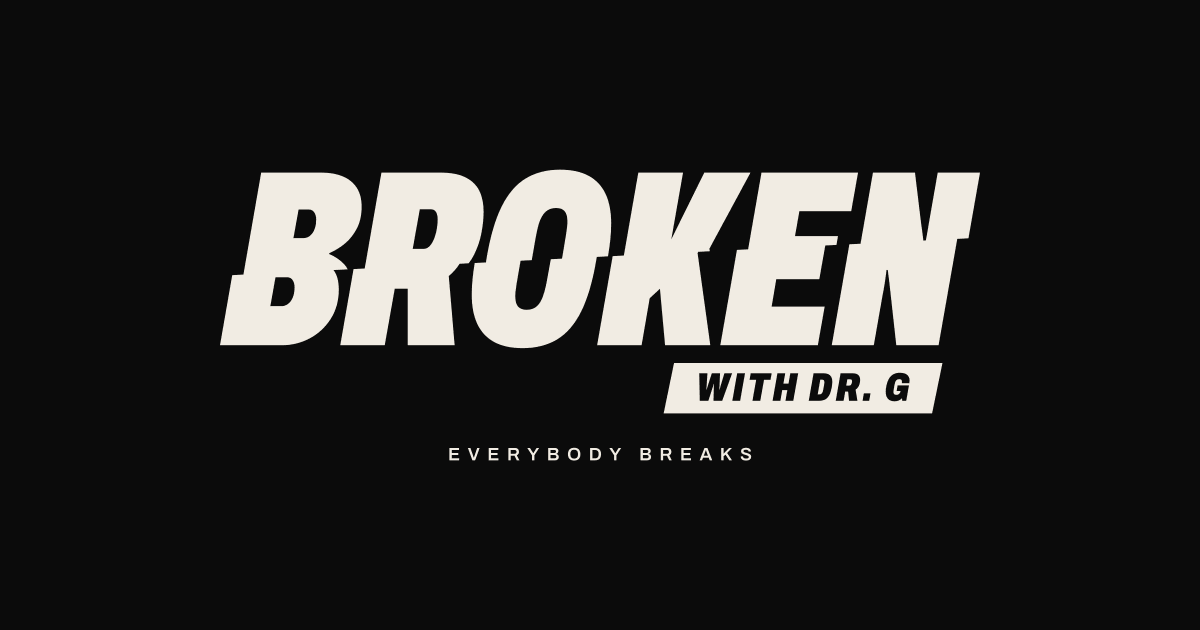
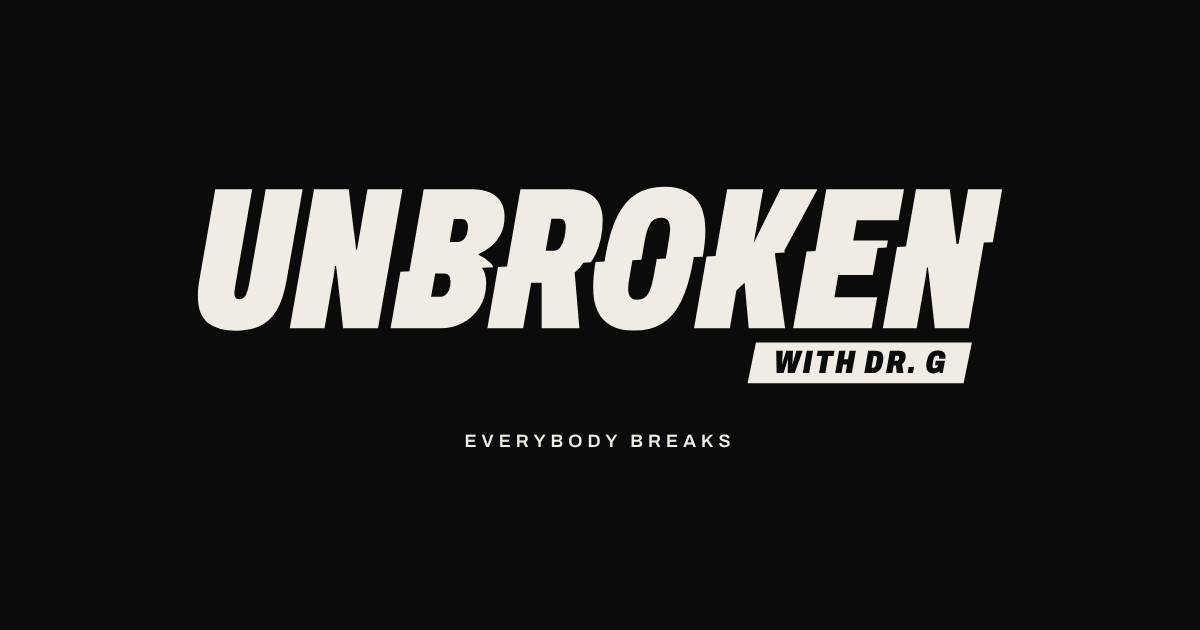
Rename the series to UNBROKEN with Dr. G
New primary lockup: UN set in the wordmark's own cut (Archivo Italic,
width 62, weight 900) at the same size, slant and spacing, in front of
the original fractured BROKEN outline. Page title, meta, labels, share
image, sponsor password screen, README, CLAUDE.md and LICENSE updated.
The encrypted sponsor deck content is unchanged (needs the password).

Claude-Session: https://claude.ai/code/session_01VykHYx9N7YApPQg7ihujk5

Changed region(s): [[0.1542, 0.2714, 0.8325, 0.6635], [0.37, 0.6937, 0.6167, 0.7238]]

diff --git a/public/index.html b/public/index.html
@@ -2,7 +2,7 @@
 <html lang="en">
 <head>
 <meta charset="utf-8">
-<title>BROKEN with Dr. G</title>
+<title>UNBROKEN with Dr. G</title>
 <meta name="viewport" content="width=device-width,initial-scale=1,viewport-fit=cover">
 <meta name="theme-color" content="#0B0B0B">
 <link rel="canonical" href="https://www.brokenwithdrg.com/">
@@ -11,13 +11,13 @@
 <link rel="apple-touch-icon" href="/apple-touch-icon.png">
 <meta property="og:type" content="website">
 <meta property="og:url" content="https://www.brokenwithdrg.com/">
-<meta property="og:title" content="BROKEN with Dr. G">
+<meta property="og:title" content="UNBROKEN with Dr. G">
 <meta property="og:description" content="Everybody breaks. Different sports. Same scars. A YouTube series, coming soon.">
 <meta property="og:image" content="https://www.brokenwithdrg.com/og-image_1200x630.png">
 <meta name="twitter:card" content="summary_large_image">
 <meta name="twitter:image" content="https://www.brokenwithdrg.com/og-image_1200x630.png">
 <style>html,body{margin:0}:root{padding-top:env(safe-area-inset-top,0px);padding-bottom:env(safe-area-inset-bottom,0px)}img{max-width:100%}[hidden]{display:none!important}</style>
-<meta name="description" content="Everybody breaks. Different sports. Same scars. BROKEN with Dr. G, a YouTube series. Coming soon.">
+<meta name="description" content="Everybody breaks. Different sports. Same scars. UNBROKEN with Dr. G, a YouTube series. Coming soon.">
 <link rel="preconnect" href="https://fonts.googleapis.com">
 <link rel="preconnect" href="https://fonts.gstatic.com" crossorigin>
 <link rel="stylesheet" href="https://fonts.googleapis.com/css2?family=Archivo:ital,wdth,wght@0,62..125,100..900;1,62..125,100..900&family=Permanent+Marker&display=swap">
@@ -137,7 +137,7 @@ transition: transform .18s ease;
 .social .tag-btn { margin-left: 6px; }
 /* ---------- Hero ---------- */
 .hero { position: relative; overflow-x: clip; padding-block: clamp(8px, 2vw, 24px) 0; }
-.lockup { display: block; width: 100%; height: auto; aspect-ratio: 1052.35 / 355.32; color: var(--bone); margin-left: -1.25%; }
+.lockup { display: block; width: 100%; height: auto; aspect-ratio: 1375.68 / 355.32; color: var(--bone); margin-left: -1.25%; }
 .lockup-wrap { margin: 0; animation: snap .9s cubic-bezier(.2,.9,.2,1) both; }
 @keyframes snap {
 0% { transform: translateY(18px); opacity: 0; }
@@ -294,7 +294,7 @@ display: grid; gap: 14px;
 .sponsor-actions .handle { color: var(--mute); }
 .sponsor-actions .handle a { color: var(--bone); font-weight: 600; text-underline-offset: 3px; }
 .foot { margin-top: 28px; display: flex; flex-wrap: wrap; gap: 16px; justify-content: space-between; align-items: center; color: var(--mute); }
-.foot svg { width: 140px; height: auto; aspect-ratio: 1052.35 / 355.32; color: var(--bone); display: block; }
+.foot svg { width: 140px; height: auto; aspect-ratio: 1375.68 / 355.32; color: var(--bone); display: block; }
 @media (prefers-reduced-motion: reduce) {
 *, *::before, *::after { animation: none !important; transition: none !important; }
 }
@@ -302,18 +302,18 @@ display: grid; gap: 14px;
 </head>
 <body>
 <svg width="0" height="0" style="position:absolute" aria-hidden="true">
-<symbol id="lockup" viewBox="0 0 1052.35 355.32"><path transform="translate(13.16 13.16) scale(1)" d="M523.81 117.01 508.67 117.77Q508.13 121.22 507.5 124.8Q500.24 166.38 487.37 191.96Q474.5 217.53 455.03 229.24Q435.56 240.96 408.5 240.96Q385.4 240.96 370.22 232.71Q355.04 224.46 347.45 208.46Q339.86 192.45 339.86 168.69Q339.86 158.46 341.02 146.91Q342 137.06 343.82 126.01L359 125.25Q359.67 120.81 360.48 116.16Q367.74 74.58 380.61 49.01Q393.48 23.43 412.95 11.72Q432.42 0.0 459.15 0.0Q482.25 0.0 497.6 8.25Q512.94 16.5 520.53 32.67Q528.12 48.84 528.12 72.6Q528.12 82.83 526.97 94.21Q525.89 104.83 523.81 117.01ZM172.38 134.58 153.26 135.54Q160.38 144.59 160.38 161.76Q160.38 184.2 149.66 201.2Q138.93 218.19 121.44 227.6Q103.95 237.0 83.82 237.0H0.0L16.5 142.38L31.59 141.62L55.6 3.96H137.11Q153.61 3.96 165.82 9.08Q178.03 14.19 184.63 24.42Q191.23 34.65 191.23 49.83Q191.23 66.66 184.96 79.04Q178.69 91.41 168.79 99.66Q158.89 107.91 147.67 112.53L147.34 113.85Q159.88 119.13 168.13 128.21Q170.64 130.96 172.38 134.58ZM335.71 126.42 323.49 127.03Q317.52 136.43 308.86 143.61L316.78 237.0H253.42V160.77H235.93L222.4 237.0H162.34L180.27 134.19L195.36 133.44L217.94 3.96H297.47Q319.25 3.96 332.12 10.72Q344.99 17.49 350.43 29.2Q355.88 40.92 355.88 56.43Q355.88 70.29 352.91 85.63Q349.94 100.98 343.17 114.51Q339.98 120.91 335.71 126.42ZM949.53 95.73 952.97 95.55Q953.96 89.67 955.24 82.67Q957.39 70.95 958.71 62.37L968.94 3.96H1026.03L1010.43 92.68L995.35 93.44L970.1 237.0H913.01L905.42 168.36Q904.76 161.1 903.61 151.86Q902.45 142.62 901.46 135.36H899.81Q899.15 141.96 897.67 151.69Q896.18 161.43 894.53 169.35L882.65 237.0H825.89L849.66 100.72L864.74 99.97L881.49 3.96H938.25L946.5 72.27Q947.16 76.56 947.82 81.67Q948.48 86.79 949.14 92.23Q949.35 93.99 949.53 95.73ZM661.25 110.14 645.66 110.92 644.76 112.59 661.92 237.0H600.87L593.94 160.77L580.08 173.64L569.19 237.0H509.13L530.11 116.7L545.2 115.94L564.73 3.96H625.12L609.28 94.05L653.83 3.96H716.2L660.76 106.59ZM832.22 101.59 817.15 102.35 809.08 147.9H751.0L744.73 184.86H816.34L807.1 237.0H675.43L697.88 108.31L712.96 107.56L731.03 3.96H861.38L852.14 56.1H782.18L776.24 89.76H834.32ZM612.95 261.0H975.35L961.35 329.0H598.95ZM461.71 120.12Q462.99 112.89 463.93 107.25Q466.08 94.38 467.24 87.12Q468.39 79.86 468.72 76.23Q469.05 72.6 469.05 70.29Q469.05 64.35 467.57 60.23Q466.08 56.1 462.78 53.96Q459.48 51.81 453.54 51.81Q446.94 51.81 442.32 54.78Q437.7 57.75 434.57 63.36Q431.43 68.97 429.45 76.56Q427.47 84.15 425.82 93.72Q422.94 110.48 420.89 122.16L405.81 122.91Q404.75 128.96 403.88 133.88Q401.57 146.91 400.42 154.17Q399.26 161.43 398.93 164.89Q398.6 168.36 398.6 171.0Q398.6 176.61 400.09 180.73Q401.57 184.86 405.04 187Q408.5 189.15 414.11 189.15Q420.71 189.15 425.33 186.18Q429.95 183.21 432.92 177.76Q435.89 172.32 438.04 164.57Q440.18 156.81 441.83 147.24Q444.71 131.87 446.63 120.87ZM260.18 106.92H274.7Q280.97 106.92 285.26 100.49Q289.55 94.05 291.69 84.81Q293.84 75.57 293.84 66.99Q293.84 61.05 291.69 57.26Q289.55 53.46 284.27 53.46H269.75ZM647.7 312.0H659.31L664.82 294.88Q665.04 294.23 665.34 293.26Q665.63 292.29 665.96 291.24Q666.28 290.18 666.55 289.27H666.93Q666.87 290.08 666.82 291.1Q666.77 292.13 666.71 293.13Q666.66 294.13 666.66 294.88L666.23 312.0H678L691.39 274.85H680.97L676 291.43Q675.78 292.13 675.51 293.1Q675.24 294.07 674.97 295.1Q674.7 296.12 674.43 297.04H674.06Q674.11 296.12 674.16 295.07Q674.22 294.02 674.3 293.05Q674.38 292.07 674.38 291.43L675.08 274.85H663.96L658.67 291.43Q658.45 292.02 658.18 292.96Q657.91 293.91 657.59 294.99Q657.26 296.07 656.99 297.04H656.61Q656.67 296.07 656.75 294.99Q656.83 293.91 656.91 292.96Q656.99 292.02 656.99 291.43L658.07 274.85H647ZM67.98 184.2H83.82Q87.45 184.2 91.41 181.56Q95.37 178.92 98.01 173.15Q100.65 167.37 100.65 158.46Q100.65 152.85 98.01 149.06Q95.37 145.26 90.75 145.26H74.91ZM794.82 312.0H808.91Q813.99 312.0 817.34 310.03Q820.69 308.06 822.74 304.04Q824.79 300.01 825.87 293.86Q826.25 291.75 826.44 289.91Q826.63 288.08 826.63 286.51Q826.63 280.52 823.66 277.68Q820.69 274.85 814.31 274.85H801.35ZM99.16 92.4H113.02Q115.99 92.4 118.96 90.91Q121.93 89.43 124.41 86.29Q126.88 83.16 128.37 78.38Q129.85 73.59 129.85 66.99Q129.85 61.38 127.21 57.58Q124.57 53.79 119.95 53.79H106.09ZM831.27 312.0H841.86L844.07 299.53H848.01L849.2 312.0H860.54L858.06 296.99Q860.16 295.58 861.51 293.53Q862.86 291.48 863.54 288.94Q864.21 286.4 864.21 283.76Q864.21 281.17 863.22 279.17Q862.22 277.17 860 276.01Q857.79 274.85 854.12 274.85H837.81ZM746 312.0H756.53L759.06 297.58H765.92L763.38 312.0H773.97L780.56 274.85H769.97L767.49 288.78H760.63L763.11 274.85H752.53ZM910.67 312.65Q913.04 312.65 914.88 312.11Q916.71 311.57 918.2 310.62Q919.68 309.68 920.82 308.49L921.03 312.0H926.43L930.11 291.26H914.82L913.47 298.82H918.77L918.71 299.04Q918.5 300.39 917.77 301.52Q917.04 302.66 915.93 303.33Q914.82 304.01 913.31 304.01Q911.85 304.01 910.94 303.55Q910.02 303.09 909.59 302.23Q909.15 301.36 909.15 300.01Q909.15 299.69 909.21 299.17Q909.26 298.66 909.42 297.69Q909.59 296.72 909.86 294.94Q910.13 293.15 910.67 290.29Q910.99 288.46 911.48 287.05Q911.96 285.65 912.72 284.7Q913.47 283.76 914.53 283.3Q915.58 282.84 916.98 282.84Q917.9 282.84 918.58 283.06Q919.25 283.27 919.74 283.7Q920.22 284.14 920.44 284.76Q920.66 285.38 920.66 286.13Q920.66 286.62 920.6 287.16Q920.55 287.7 920.44 288.29H930.59Q930.75 287.27 930.86 286.35Q930.97 285.43 930.97 284.62Q930.97 282.03 930.05 280.06Q929.13 278.09 927.43 276.79Q925.73 275.5 923.3 274.85Q920.87 274.2 917.79 274.2Q913.2 274.2 909.61 275.96Q906.02 277.71 903.57 281.46Q901.11 285.22 899.76 291.26Q899.27 293.37 899 295.48Q898.73 297.58 898.73 299.63Q898.73 306.17 901.81 309.41Q904.89 312.65 910.67 312.65ZM718.83 312.0H729.41L734.44 283.7H743.18L744.75 274.85H716.51L714.94 283.7H723.85ZM691.66 312.0H702.19L708.78 274.85H698.2ZM806.92 303.36 810.37 283.49H812.75Q813.94 283.49 814.64 283.92Q815.34 284.35 815.66 285.11Q815.99 285.86 815.99 287Q815.99 287.54 815.88 288.38Q815.77 289.21 815.48 291.05Q815.18 292.88 814.53 296.39Q814.21 298.12 813.8 299.45Q813.4 300.77 812.8 301.63Q812.21 302.5 811.34 302.93Q810.48 303.36 809.24 303.36ZM867.46 312.0H876.42L878.15 301.96H869.24ZM845.42 291.53 846.93 283.06H851.36Q852.33 283.06 852.82 283.76Q853.31 284.46 853.31 285.59Q853.31 287 852.85 288.38Q852.39 289.75 851.55 290.64Q850.71 291.53 849.69 291.53Z" fill="currentColor"/></symbol>
+<symbol id="lockup" viewBox="0 0 1375.68 355.32"><path transform="translate(336.49 13.16)" d="M-258.97 241.06Q-289.45 241.06 -306.39 228.02Q-323.33 214.98 -323.33 183.14Q-323.33 177.39 -322.82 170.78Q-322.31 164.18 -320.95 157.06L-294.2 3.96H-232.21L-259.98 162.48Q-260.66 167.22 -261.34 171.29Q-262.02 175.35 -262.02 178.4Q-262.02 183.14 -260.15 185.68Q-258.29 188.22 -253.89 188.22Q-246.1 188.22 -242.71 181.28Q-239.32 174.34 -237.29 162.48L-209.51 3.96H-147.53L-174.97 159.09Q-180.38 189.92 -191.73 207.87Q-203.08 225.82 -220.02 233.44Q-236.95 241.06 -258.97 241.06ZM-169.11 237.0 -128.47 3.96H-70.21L-61.74 74.08Q-61.06 78.48 -60.39 83.73Q-59.71 88.98 -59.03 94.57Q-58.35 100.16 -58.01 105.58H-56.32Q-54.97 96.77 -52.76 84.74Q-50.56 72.72 -49.21 63.91L-38.71 3.96H19.89L-21.09 237.0H-79.69L-87.48 166.55Q-88.16 159.09 -89.35 149.61Q-90.53 140.13 -91.55 132.67H-93.24Q-93.92 139.45 -95.44 149.44Q-96.97 159.43 -98.66 167.56L-110.85 237.0Z M523.81 117.01 508.67 117.77Q508.13 121.22 507.5 124.8Q500.24 166.38 487.37 191.96Q474.5 217.53 455.03 229.24Q435.56 240.96 408.5 240.96Q385.4 240.96 370.22 232.71Q355.04 224.46 347.45 208.46Q339.86 192.45 339.86 168.69Q339.86 158.46 341.02 146.91Q342 137.06 343.82 126.01L359 125.25Q359.67 120.81 360.48 116.16Q367.74 74.58 380.61 49.01Q393.48 23.43 412.95 11.72Q432.42 0.0 459.15 0.0Q482.25 0.0 497.6 8.25Q512.94 16.5 520.53 32.67Q528.12 48.84 528.12 72.6Q528.12 82.83 526.97 94.21Q525.89 104.83 523.81 117.01ZM172.38 134.58 153.26 135.54Q160.38 144.59 160.38 161.76Q160.38 184.2 149.66 201.2Q138.93 218.19 121.44 227.6Q103.95 237.0 83.82 237.0H0.0L16.5 142.38L31.59 141.62L55.6 3.96H137.11Q153.61 3.96 165.82 9.08Q178.03 14.19 184.63 24.42Q191.23 34.65 191.23 49.83Q191.23 66.66 184.96 79.04Q178.69 91.41 168.79 99.66Q158.89 107.91 147.67 112.53L147.34 113.85Q159.88 119.13 168.13 128.21Q170.64 130.96 172.38 134.58ZM335.71 126.42 323.49 127.03Q317.52 136.43 308.86 143.61L316.78 237.0H253.42V160.77H235.93L222.4 237.0H162.34L180.27 134.19L195.36 133.44L217.94 3.96H297.47Q319.25 3.96 332.12 10.72Q344.99 17.49 350.43 29.2Q355.88 40.92 355.88 56.43Q355.88 70.29 352.91 85.63Q349.94 100.98 343.17 114.51Q339.98 120.91 335.71 126.42ZM949.53 95.73 952.97 95.55Q953.96 89.67 955.24 82.67Q957.39 70.95 958.71 62.37L968.94 3.96H1026.03L1010.43 92.68L995.35 93.44L970.1 237.0H913.01L905.42 168.36Q904.76 161.1 903.61 151.86Q902.45 142.62 901.46 135.36H899.81Q899.15 141.96 897.67 151.69Q896.18 161.43 894.53 169.35L882.65 237.0H825.89L849.66 100.72L864.74 99.97L881.49 3.96H938.25L946.5 72.27Q947.16 76.56 947.82 81.67Q948.48 86.79 949.14 92.23Q949.35 93.99 949.53 95.73ZM661.25 110.14 645.66 110.92 644.76 112.59 661.92 237.0H600.87L593.94 160.77L580.08 173.64L569.19 237.0H509.13L530.11 116.7L545.2 115.94L564.73 3.96H625.12L609.28 94.05L653.83 3.96H716.2L660.76 106.59ZM832.22 101.59 817.15 102.35 809.08 147.9H751.0L744.73 184.86H816.34L807.1 237.0H675.43L697.88 108.31L712.96 107.56L731.03 3.96H861.38L852.14 56.1H782.18L776.24 89.76H834.32ZM612.95 261.0H975.35L961.35 329.0H598.95ZM461.71 120.12Q462.99 112.89 463.93 107.25Q466.08 94.38 467.24 87.12Q468.39 79.86 468.72 76.23Q469.05 72.6 469.05 70.29Q469.05 64.35 467.57 60.23Q466.08 56.1 462.78 53.96Q459.48 51.81 453.54 51.81Q446.94 51.81 442.32 54.78Q437.7 57.75 434.57 63.36Q431.43 68.97 429.45 76.56Q427.47 84.15 425.82 93.72Q422.94 110.48 420.89 122.16L405.81 122.91Q404.75 128.96 403.88 133.88Q401.57 146.91 400.42 154.17Q399.26 161.43 398.93 164.89Q398.6 168.36 398.6 171.0Q398.6 176.61 400.09 180.73Q401.57 184.86 405.04 187Q408.5 189.15 414.11 189.15Q420.71 189.15 425.33 186.18Q429.95 183.21 432.92 177.76Q435.89 172.32 438.04 164.57Q440.18 156.81 441.83 147.24Q444.71 131.87 446.63 120.87ZM260.18 106.92H274.7Q280.97 106.92 285.26 100.49Q289.55 94.05 291.69 84.81Q293.84 75.57 293.84 66.99Q293.84 61.05 291.69 57.26Q289.55 53.46 284.27 53.46H269.75ZM647.7 312.0H659.31L664.82 294.88Q665.04 294.23 665.34 293.26Q665.63 292.29 665.96 291.24Q666.28 290.18 666.55 289.27H666.93Q666.87 290.08 666.82 291.1Q666.77 292.13 666.71 293.13Q666.66 294.13 666.66 294.88L666.23 312.0H678L691.39 274.85H680.97L676 291.43Q675.78 292.13 675.51 293.1Q675.24 294.07 674.97 295.1Q674.7 296.12 674.43 297.04H674.06Q674.11 296.12 674.16 295.07Q674.22 294.02 674.3 293.05Q674.38 292.07 674.38 291.43L675.08 274.85H663.96L658.67 291.43Q658.45 292.02 658.18 292.96Q657.91 293.91 657.59 294.99Q657.26 296.07 656.99 297.04H656.61Q656.67 296.07 656.75 294.99Q656.83 293.91 656.91 292.96Q656.99 292.02 656.99 291.43L658.07 274.85H647ZM67.98 184.2H83.82Q87.45 184.2 91.41 181.56Q95.37 178.92 98.01 173.15Q100.65 167.37 100.65 158.46Q100.65 152.85 98.01 149.06Q95.37 145.26 90.75 145.26H74.91ZM794.82 312.0H808.91Q813.99 312.0 817.34 310.03Q820.69 308.06 822.74 304.04Q824.79 300.01 825.87 293.86Q826.25 291.75 826.44 289.91Q826.63 288.08 826.63 286.51Q826.63 280.52 823.66 277.68Q820.69 274.85 814.31 274.85H801.35ZM99.16 92.4H113.02Q115.99 92.4 118.96 90.91Q121.93 89.43 124.41 86.29Q126.88 83.16 128.37 78.38Q129.85 73.59 129.85 66.99Q129.85 61.38 127.21 57.58Q124.57 53.79 119.95 53.79H106.09ZM831.27 312.0H841.86L844.07 299.53H848.01L849.2 312.0H860.54L858.06 296.99Q860.16 295.58 861.51 293.53Q862.86 291.48 863.54 288.94Q864.21 286.4 864.21 283.76Q864.21 281.17 863.22 279.17Q862.22 277.17 860 276.01Q857.79 274.85 854.12 274.85H837.81ZM746 312.0H756.53L759.06 297.58H765.92L763.38 312.0H773.97L780.56 274.85H769.97L767.49 288.78H760.63L763.11 274.85H752.53ZM910.67 312.65Q913.04 312.65 914.88 312.11Q916.71 311.57 918.2 310.62Q919.68 309.68 920.82 308.49L921.03 312.0H926.43L930.11 291.26H914.82L913.47 298.82H918.77L918.71 299.04Q918.5 300.39 917.77 301.52Q917.04 302.66 915.93 303.33Q914.82 304.01 913.31 304.01Q911.85 304.01 910.94 303.55Q910.02 303.09 909.59 302.23Q909.15 301.36 909.15 300.01Q909.15 299.69 909.21 299.17Q909.26 298.66 909.42 297.69Q909.59 296.72 909.86 294.94Q910.13 293.15 910.67 290.29Q910.99 288.46 911.48 287.05Q911.96 285.65 912.72 284.7Q913.47 283.76 914.53 283.3Q915.58 282.84 916.98 282.84Q917.9 282.84 918.58 283.06Q919.25 283.27 919.74 283.7Q920.22 284.14 920.44 284.76Q920.66 285.38 920.66 286.13Q920.66 286.62 920.6 287.16Q920.55 287.7 920.44 288.29H930.59Q930.75 287.27 930.86 286.35Q930.97 285.43 930.97 284.62Q930.97 282.03 930.05 280.06Q929.13 278.09 927.43 276.79Q925.73 275.5 923.3 274.85Q920.87 274.2 917.79 274.2Q913.2 274.2 909.61 275.96Q906.02 277.71 903.57 281.46Q901.11 285.22 899.76 291.26Q899.27 293.37 899 295.48Q898.73 297.58 898.73 299.63Q898.73 306.17 901.81 309.41Q904.89 312.65 910.67 312.65ZM718.83 312.0H729.41L734.44 283.7H743.18L744.75 274.85H716.51L714.94 283.7H723.85ZM691.66 312.0H702.19L708.78 274.85H698.2ZM806.92 303.36 810.37 283.49H812.75Q813.94 283.49 814.64 283.92Q815.34 284.35 815.66 285.11Q815.99 285.86 815.99 287Q815.99 287.54 815.88 288.38Q815.77 289.21 815.48 291.05Q815.18 292.88 814.53 296.39Q814.21 298.12 813.8 299.45Q813.4 300.77 812.8 301.63Q812.21 302.5 811.34 302.93Q810.48 303.36 809.24 303.36ZM867.46 312.0H876.42L878.15 301.96H869.24ZM845.42 291.53 846.93 283.06H851.36Q852.33 283.06 852.82 283.76Q853.31 284.46 853.31 285.59Q853.31 287 852.85 288.38Q852.39 289.75 851.55 290.64Q850.71 291.53 849.69 291.53Z" fill="currentColor"/></symbol>
 <symbol id="b-icon" viewBox="0 0 1000 1000"><path transform="translate(171.76 100) scale(3.43)" d="M172.38 130.62 153.26 131.58Q160.38 140.63 160.38 157.8Q160.38 180.24 149.66 197.24Q138.93 214.23 121.44 223.64Q103.95 233.04 83.82 233.04H0.0L16.5 138.42L31.59 137.66L55.6 0.0H137.11Q153.61 0.0 165.82 5.12Q178.03 10.23 184.63 20.46Q191.23 30.69 191.23 45.87Q191.23 62.7 184.96 75.08Q178.69 87.45 168.79 95.7Q158.89 103.95 147.67 108.57L147.34 109.89Q159.88 115.17 168.13 124.25Q170.64 127 172.38 130.62ZM67.98 180.24H83.82Q87.45 180.24 91.41 177.6Q95.37 174.96 98.01 169.19Q100.65 163.41 100.65 154.5Q100.65 148.89 98.01 145.1Q95.37 141.3 90.75 141.3H74.91ZM99.16 88.44H113.02Q115.99 88.44 118.96 86.95Q121.93 85.47 124.41 82.33Q126.88 79.2 128.37 74.42Q129.85 69.63 129.85 63.03Q129.85 57.42 127.21 53.62Q124.57 49.83 119.95 49.83H106.09Z" fill="currentColor"/></symbol>
 </svg>
 <header class="topbar">
 <div class="wrap">
-<a class="brand" href="#top" aria-label="BROKEN with Dr. G, home">
+<a class="brand" href="#top" aria-label="UNBROKEN with Dr. G, home">
 <svg aria-hidden="true"><use href="#b-icon"></use></svg>
 <span class="status label"><i class="pulse" aria-hidden="true"></i><span>Season one</span><span class="long mute">· In treatment</span></span>
 </a>
 <div class="social">
 <a class="nav-link label" data-track="Sponsors (header)" href="/sponsors">Sponsors</a>
-<a class="icon-link" id="yt-icon" data-track="YouTube (header icon)" href="#subscribe" aria-label="BROKEN with Dr. G on YouTube" hidden>
+<a class="icon-link" id="yt-icon" data-track="YouTube (header icon)" href="#subscribe" aria-label="UNBROKEN with Dr. G on YouTube" hidden>
 <svg viewBox="0 0 24 24" aria-hidden="true"><path fill="currentColor" d="M23 7.2a3 3 0 0 0-2.1-2.1C19 4.6 12 4.6 12 4.6s-7 0-8.9.5A3 3 0 0 0 1 7.2 31 31 0 0 0 .5 12a31 31 0 0 0 .5 4.8 3 3 0 0 0 2.1 2.1c1.9.5 8.9.5 8.9.5s7 0 8.9-.5a3 3 0 0 0 2.1-2.1 31 31 0 0 0 .5-4.8 31 31 0 0 0-.5-4.8zM9.75 15.02V8.98L15.5 12l-5.75 3.02z"/></svg>
 </a>
 <a class="icon-link" data-track="Instagram (header)" href="https://www.instagram.com/brokenwithdrg/" target="_blank" rel="noopener" aria-label="@brokenwithdrg on Instagram">
@@ -328,7 +328,7 @@ display: grid; gap: 14px;
 <section class="hero" aria-labelledby="hero-title">
 <div class="wrap">
 <h1 id="hero-title" class="lockup-wrap">
-<svg class="lockup" role="img" aria-label="BROKEN with Dr. G"><use href="#lockup"></use></svg>
+<svg class="lockup" role="img" aria-label="UNBROKEN with Dr. G"><use href="#lockup"></use></svg>
 </h1>
 <div class="hero-row">
 <div class="hero-line">
@@ -452,7 +452,7 @@ display: grid; gap: 14px;
 </div>
 </div>
 <div class="foot label">
-<svg role="img" aria-label="BROKEN with Dr. G"><use href="#lockup"></use></svg>
+<svg role="img" aria-label="UNBROKEN with Dr. G"><use href="#lockup"></use></svg>
 <span>Everybody breaks</span>
 </div>
 </div>

diff --git a/src/template.html b/src/template.html
@@ -1,6 +1,6 @@
-<title>BROKEN with Dr. G</title>
+<title>UNBROKEN with Dr. G</title>
 <meta name="claude:viewport-fit-sides" content="cover">
-<meta name="description" content="Everybody breaks. Different sports. Same scars. BROKEN with Dr. G, a YouTube series. Coming soon.">
+<meta name="description" content="Everybody breaks. Different sports. Same scars. UNBROKEN with Dr. G, a YouTube series. Coming soon.">
 <link rel="preconnect" href="https://fonts.googleapis.com">
 <link rel="preconnect" href="https://fonts.gstatic.com" crossorigin>
 <link rel="stylesheet" href="https://fonts.googleapis.com/css2?family=Archivo:ital,wdth,wght@0,62..125,100..900;1,62..125,100..900&family=Permanent+Marker&display=swap">
@@ -129,7 +129,7 @@ p { margin: 0; max-width: 62ch; }
 
 /* ---------- Hero ---------- */
 .hero { position: relative; overflow-x: clip; padding-block: clamp(8px, 2vw, 24px) 0; }
-.lockup { display: block; width: 100%; height: auto; aspect-ratio: 1052.35 / 355.32; color: var(--bone); margin-left: -1.25%; }
+.lockup { display: block; width: 100%; height: auto; aspect-ratio: 1375.68 / 355.32; color: var(--bone); margin-left: -1.25%; }
 .lockup-wrap { margin: 0; animation: snap .9s cubic-bezier(.2,.9,.2,1) both; }
 @keyframes snap {
   0% { transform: translateY(18px); opacity: 0; }
@@ -294,7 +294,7 @@ section { position: relative; }
 .sponsor-actions .handle { color: var(--mute); }
 .sponsor-actions .handle a { color: var(--bone); font-weight: 600; text-underline-offset: 3px; }
 .foot { margin-top: 28px; display: flex; flex-wrap: wrap; gap: 16px; justify-content: space-between; align-items: center; color: var(--mute); }
-.foot svg { width: 140px; height: auto; aspect-ratio: 1052.35 / 355.32; color: var(--bone); display: block; }
+.foot svg { width: 140px; height: auto; aspect-ratio: 1375.68 / 355.32; color: var(--bone); display: block; }
 
 @media (prefers-reduced-motion: reduce) {
   *, *::before, *::after { animation: none !important; transition: none !important; }
@@ -302,19 +302,19 @@ section { position: relative; }
 </style>
 
 <svg width="0" height="0" style="position:absolute" aria-hidden="true">
-  <symbol id="lockup" viewBox="0 0 1052.35 355.32"><!--LOCKUP--></symbol>
+  <symbol id="lockup" viewBox="0 0 1375.68 355.32"><!--LOCKUP--></symbol>
   <symbol id="b-icon" viewBox="0 0 1000 1000"><!--ICON--></symbol>
 </svg>
 
 <header class="topbar">
   <div class="wrap">
-    <a class="brand" href="#top" aria-label="BROKEN with Dr. G, home">
+    <a class="brand" href="#top" aria-label="UNBROKEN with Dr. G, home">
       <svg aria-hidden="true"><use href="#b-icon"></use></svg>
       <span class="status label"><i class="pulse" aria-hidden="true"></i><span>Season one</span><span class="long mute">· In treatment</span></span>
     </a>
     <div class="social">
       <a class="nav-link label" data-track="Sponsors (header)" href="/sponsors">Sponsors</a>
-      <a class="icon-link" id="yt-icon" data-track="YouTube (header icon)" href="#subscribe" aria-label="BROKEN with Dr. G on YouTube" hidden>
+      <a class="icon-link" id="yt-icon" data-track="YouTube (header icon)" href="#subscribe" aria-label="UNBROKEN with Dr. G on YouTube" hidden>
         <svg viewBox="0 0 24 24" aria-hidden="true"><path fill="currentColor" d="M23 7.2a3 3 0 0 0-2.1-2.1C19 4.6 12 4.6 12 4.6s-7 0-8.9.5A3 3 0 0 0 1 7.2 31 31 0 0 0 .5 12a31 31 0 0 0 .5 4.8 3 3 0 0 0 2.1 2.1c1.9.5 8.9.5 8.9.5s7 0 8.9-.5a3 3 0 0 0 2.1-2.1 31 31 0 0 0 .5-4.8 31 31 0 0 0-.5-4.8zM9.75 15.02V8.98L15.5 12l-5.75 3.02z"/></svg>
       </a>
       <a class="icon-link" data-track="Instagram (header)" href="https://www.instagram.com/brokenwithdrg/" target="_blank" rel="noopener" aria-label="@brokenwithdrg on Instagram">
@@ -330,7 +330,7 @@ section { position: relative; }
   <section class="hero" aria-labelledby="hero-title">
     <div class="wrap">
       <h1 id="hero-title" class="lockup-wrap">
-        <svg class="lockup" role="img" aria-label="BROKEN with Dr. G"><use href="#lockup"></use></svg>
+        <svg class="lockup" role="img" aria-label="UNBROKEN with Dr. G"><use href="#lockup"></use></svg>
       </h1>
       <div class="hero-row">
         <div class="hero-line">
@@ -460,7 +460,7 @@ section { position: relative; }
         </div>
       </div>
       <div class="foot label">
-        <svg role="img" aria-label="BROKEN with Dr. G"><use href="#lockup"></use></svg>
+        <svg role="img" aria-label="UNBROKEN with Dr. G"><use href="#lockup"></use></svg>
         <span>Everybody breaks</span>
       </div>
     </div>

diff --git a/public/sponsors.html b/public/sponsors.html
@@ -1,6 +1,6 @@
 <!doctype html>
 <html lang="en"><head><meta charset="utf-8">
-<title>Sponsors · BROKEN with Dr. G</title>
+<title>Sponsors · UNBROKEN with Dr. G</title>
 <meta name="viewport" content="width=device-width,initial-scale=1">
 <meta name="robots" content="noindex,nofollow">
 <meta name="theme-color" content="#0B0B0B">

diff --git a/src/build.py b/src/build.py
@@ -40,7 +40,7 @@ def head_extra(url, title, desc, private=False):
 
 def build(template, out, extra, source=None):
     h = source if source is not None else open(os.path.join(SRC, template)).read()
-    h = h.replace('<!--LOCKUP-->', path('BROKEN_Primary_Lockup_Bone.svg')).replace('<!--ICON-->', path('BROKEN_Icon_Bone.svg'))
+    h = h.replace('<!--LOCKUP-->', path('UNBROKEN_Primary_Lockup_Bone.svg')).replace('<!--ICON-->', path('UNBROKEN_Icon_Bone.svg'))
     title_end = h.index('</title>') + len('</title>')
     body_start = h.index('<svg width="0"')
     doc = ('<!doctype html>\n<html lang="en">\n<head>\n<meta charset="utf-8">\n' + h[:title_end] + extra +
@@ -72,7 +72,7 @@ def build_sponsors():
     print('built public/sponsors.html (encrypted)')
 
 os.makedirs(OUT, exist_ok=True)
-build('template.html', 'index.html', head_extra('https://www.brokenwithdrg.com/', 'BROKEN with Dr. G',
+build('template.html', 'index.html', head_extra('https://www.brokenwithdrg.com/', 'UNBROKEN with Dr. G',
       'Everybody breaks. Different sports. Same scars. A YouTube series, coming soon.'))
 build_sponsors()
 for f in ['favicon.ico', 'favicon-32x32.png', 'apple-touch-icon.png', 'og-image_1200x630.png']:

diff --git a/src/sealed.py b/src/sealed.py
@@ -39,7 +39,7 @@ def gate_page(blob):
 
 GATE = r'''<!doctype html>
 <html lang="en"><head><meta charset="utf-8">
-<title>Sponsors · BROKEN with Dr. G</title>
+<title>Sponsors · UNBROKEN with Dr. G</title>
 <meta name="viewport" content="width=device-width,initial-scale=1">
 <meta name="robots" content="noindex,nofollow">
 <meta name="theme-color" content="#0B0B0B">

diff --git a/README.md b/README.md
@@ -2,7 +2,7 @@
   <a href="https://www.brokenwithdrg.com">
     <picture>
       <source media="(prefers-color-scheme: dark)" srcset="docs/logo-bone.svg">
-      <img src="docs/logo-ink.svg" alt="BROKEN with Dr. G" width="440">
+      <img src="docs/logo-ink.svg" alt="UNBROKEN with Dr. G" width="440">
     </picture>
   </a>
 </p>
@@ -10,7 +10,7 @@
 <p align="center"><strong>Everybody breaks. Different sports. Same scars.</strong></p>
 
 <p align="center">
-  The coming-soon site for <em>BROKEN with Dr. G</em>, a YouTube series.<br>
+  The coming-soon site for <em>UNBROKEN with Dr. G</em>, a YouTube series.<br>
   <a href="https://www.brokenwithdrg.com"><strong>www.brokenwithdrg.com</strong></a> ·
   <a href="https://www.instagram.com/brokenwithdrg/">@brokenwithdrg</a>
 </p>
@@ -24,7 +24,7 @@
 ---
 
 <p align="center">
-  <img src="docs/preview-desktop.png" alt="Desktop view of the BROKEN with Dr. G landing page" width="760">
+  <img src="docs/preview-desktop.png" alt="Desktop view of the UNBROKEN with Dr. G landing page" width="760">
 </p>
 
 <table>
@@ -95,7 +95,7 @@ python3 src/build.py && python3 -m http.server 8000 --directory public
 
 ## Brand rules
 
-The page follows the BROKEN with Dr. G brand kit. For anything new:
+The page follows the UNBROKEN with Dr. G brand kit. For anything new:
 
 - **Colour:** Ink `#0B0B0B` and Bone `#F1ECE3`, one at a time: bone on ink, or ink on bone. The only red is the blinking recording light (`--rec`) and the official YouTube logo.
 - **Type:** Archivo from Google Fonts. Display is italic, width 62, weight 900, uppercase. Labels are width 100, weight 600, in letter-spaced caps. The handwriting on the tape uses Permanent Marker, and only there.
@@ -122,4 +122,4 @@ The page follows the BROKEN with Dr. G brand kit. For anything new:
 
 ---
 
-<p align="center"><sub>© 2026 BROKEN with Dr. G. All rights reserved. The name, logo and brand assets are not licensed for reuse.</sub></p>
+<p align="center"><sub>© 2026 UNBROKEN with Dr. G. All rights reserved. The name, logo and brand assets are not licensed for reuse.</sub></p>

diff --git a/CLAUDE.md b/CLAUDE.md
@@ -1,4 +1,4 @@
-# BROKEN with Dr. G — coming-soon site
+# UNBROKEN with Dr. G — coming-soon site
 
 Static landing page for the YouTube series, live at https://www.brokenwithdrg.com. Vercel deploys every push to `main` to production, so a push is a release.
 
